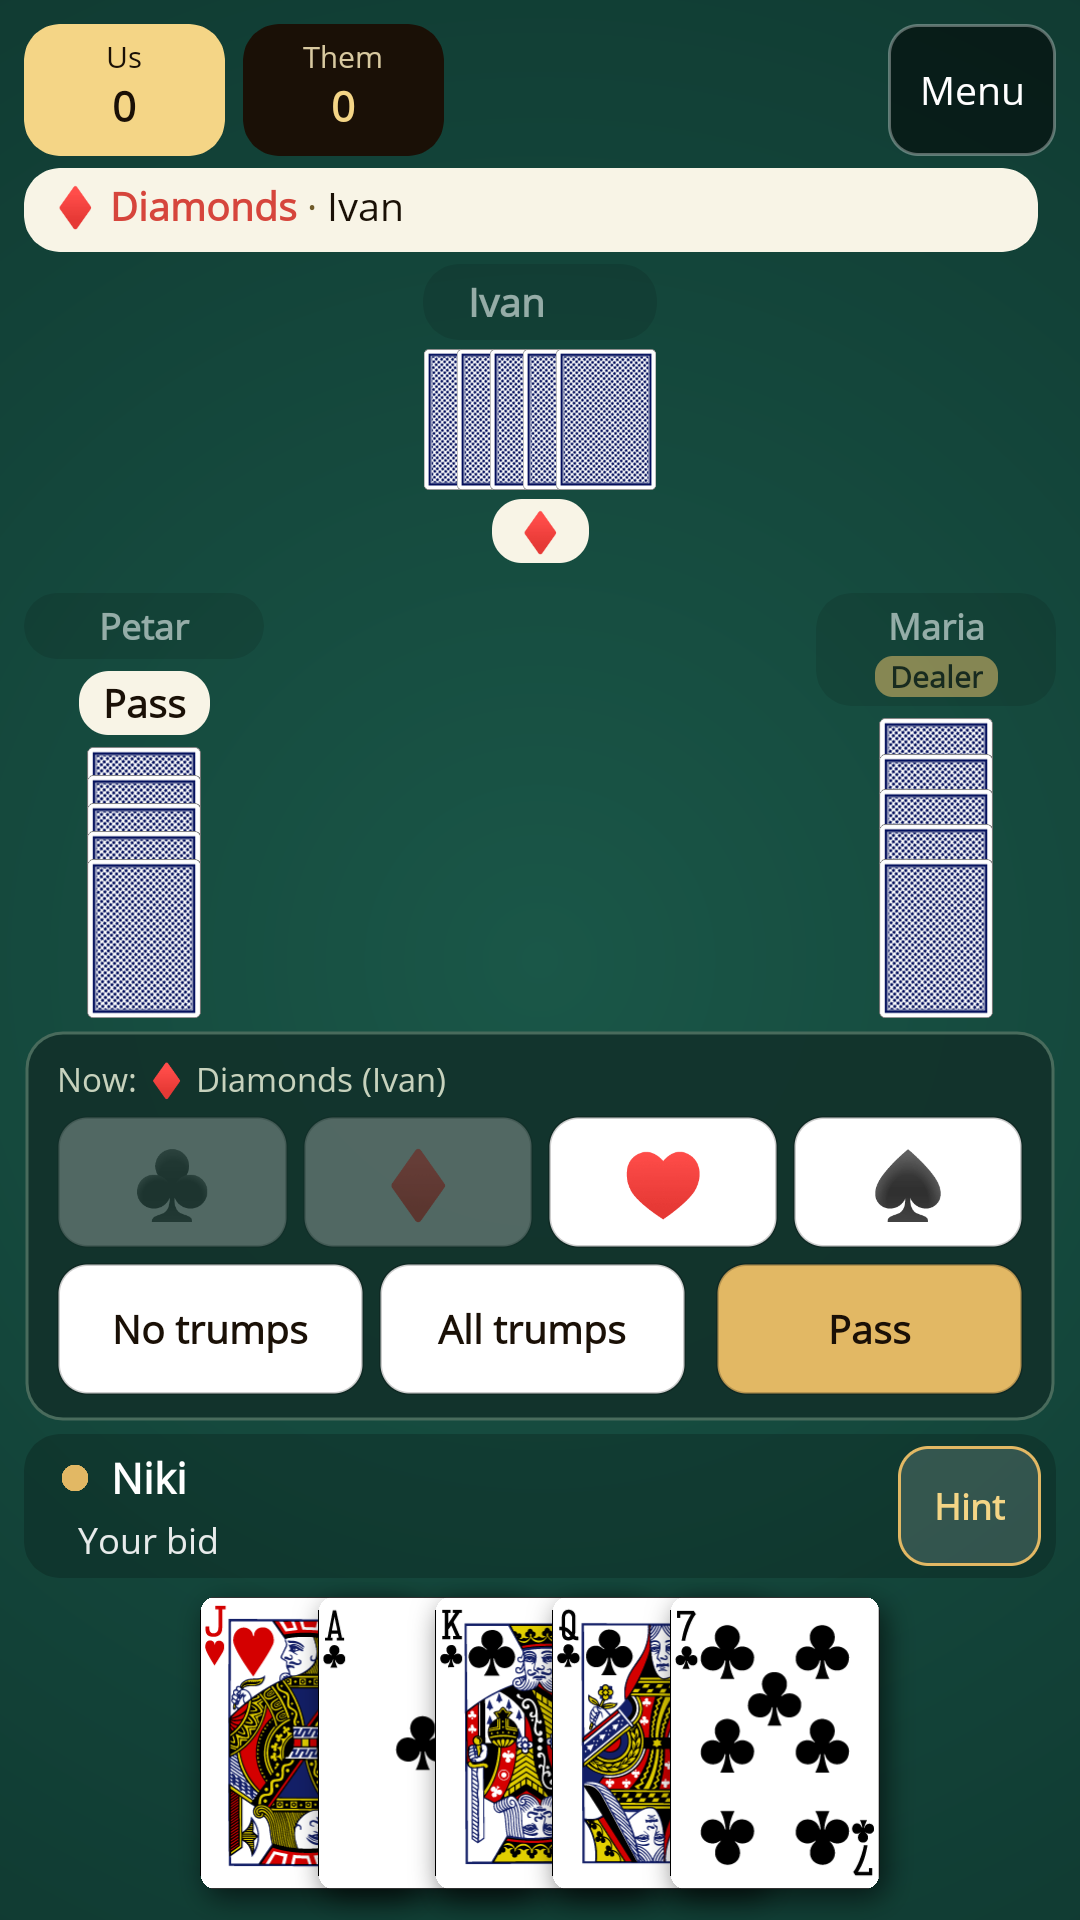
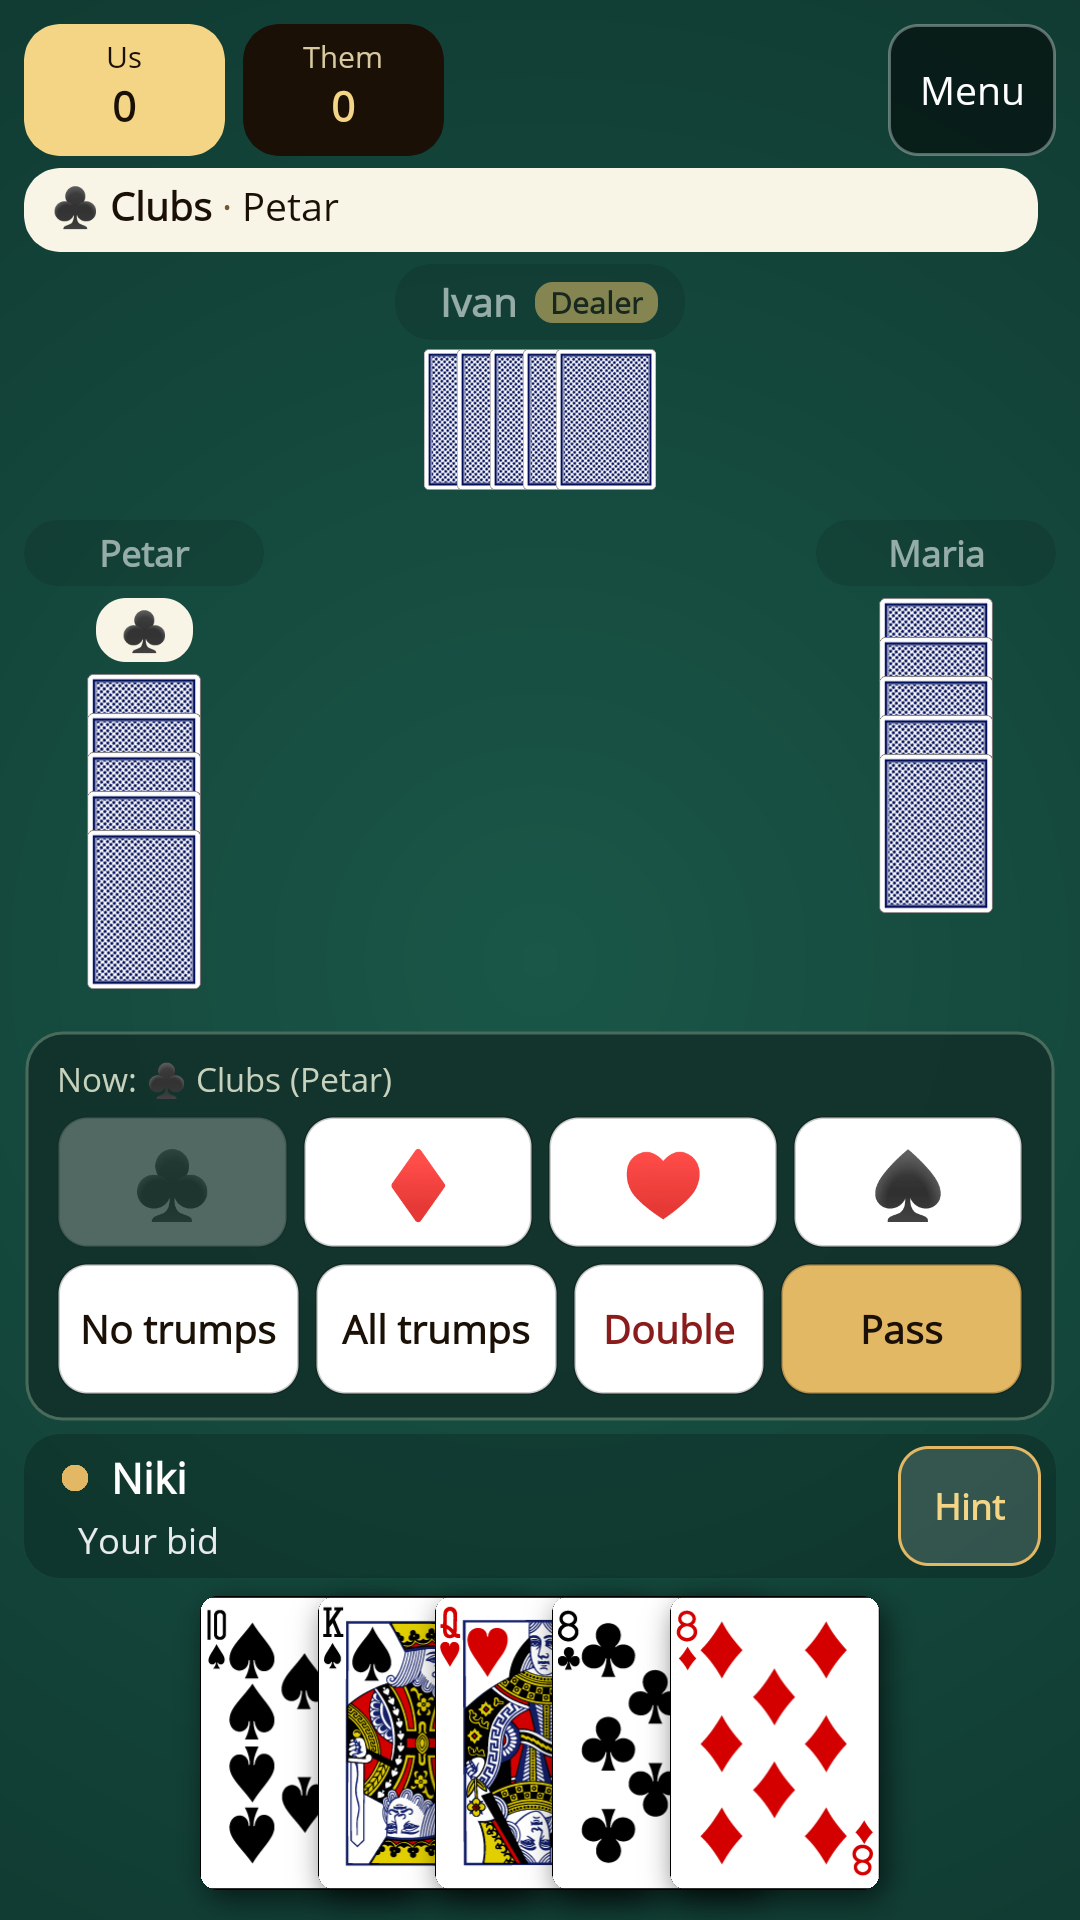
Refresh store screenshots for manual card play

diff --git a/store/google-play/README.md b/store/google-play/README.md
@@ -10,7 +10,7 @@
 
 | № | Файл във всяка езикова папка | Съдържание |
 | --- | --- | --- |
-| 1 | `01-gameplay.png` | Разиграване — картите, текущата игра и резултатът |
+| 1 | `01-gameplay.png` | Разиграване — невалидните карти са леко затъмнени; всяка човешка карта чака натискане |
 | 2 | `02-bidding.png` | Обявяване — избор на игра с началните пет карти |
 | 3 | `03-hint.png` | Подсказка — предложена карта, отбелязана в ръката |
 | 4 | `04-declarations.png` | Комбинации — реална възможност за обява |
@@ -26,7 +26,7 @@
 - Заснемане от реалния Android интерфейс на **BlueStacks Test**, конфигурация `Pie64_2`, serial `127.0.0.1:5575`, Android 9 / API 28. The Tower (`Pie64`, `emulator-5554`) не се използва.
 - Телефонен профил **1080 × 1920**, **480 dpi**, ширина **360 dp**, системен шрифт 1x. Android immersive policy скрива системната лента само за заснемането.
 - **24-битов RGB PNG, без алфа-канал**, с оригиналните екранни пиксели. Няма преоразмеряване, изрязване, ретуш, добавени надписи или генериран интерфейс. Игрите и резултатите са реални.
[2 lines of base64/hex data omitted]
 
 Google Play допуска до осем снимки за тип устройство и изисква JPEG или 24-битов PNG без алфа-канал. Избраният размер 1080 × 1920 е 9:16 и покрива размера за препоръчваните вертикални игрови снимки; за тези формати се искат поне три кадъра от действителната игра. [Официални указания за изображенията в Google Play](https://support.google.com/googleplay/android-developer/answer/9866151?hl=bg).
 
@@ -79,8 +79,8 @@ Start-Process .\store\google-play\screenshots\index.html
 
 - **21/21 теста на валидатора:** декодиране на PNG филтрите, повредени файлове, грешни размери/формат, дубликати, несъответстващи записи за произход и защита на манифеста при неуспех.
 - **16/16 файла:** 1080 × 1920, 24-битов RGB PNG, без прозрачност, без дубликати; CRC и RGB хешовете съвпадат с данните от заснемането.
-- **Визуален преглед:** двата езика са правилни; картите, подсказките, изборите и резултатите са четими. Статистиката и правилата са страници с превъртане и естествено продължават под екрана. Английският кадър с две комбинации е заменен с по-ясен кадър с една комбинация, която се вижда изцяло.
+- **Визуален преглед:** двата езика са правилни; картите, подсказките, изборите и резултатите са четими. Статистиката и правилата са страници с превъртане и естествено продължават под екрана. Кадрите с комбинации показват по една комбинация, която се вижда изцяло. В разиграването невалидните карти са леко сиви, валидните са ярки, а подсказката ги подчертава със златна рамка без разместване.
 - **Test е възстановен и проверен след рестарт:** физически дисплей 1920 × 1080 с портретна ориентация на приложението, 240 dpi, системен шрифт 1.0; временните `policy_control`, `sysui_demo_allowed` и `sysui_tuner_demo_on` са премахнати. Приложението е на началния екран на български; запазени са четирите изиграни игри и рейтингът 960. The Tower не е променян.
-- Заснемането използва вече проверения APK 1.0. Няма промени в приложението или ново публикуване.
+- Всичките 16 кадъра са презаснети от проверения APK 1.0 след поправките за ръчно изиграване на всяка човешка карта и леко затъмняване на невалидните карти (commit `92a0579`). Комплектът заменя по-ранните снимки от същия ден. Няма ново публикуване.
 
 Архивът за предаване е `artifacts/store-screenshots-20260929/Belot-1.0-GooglePlay-bg-en.zip`. За качване използвай само осемте PNG файла от съответната езикова папка; галерията, манифестът и записите за произход са за преглед и проверка.

diff --git a/etc/AndroidUiReleaseCheck.md b/etc/AndroidUiReleaseCheck.md
@@ -2,6 +2,8 @@
 
 September 29, 2026. Scope: the MAUI app in `src/UI/Belot.UI`; engine rules and AI weights are unchanged. App version remains **1.0 (build 1)**.
 
+Latest installed APK and validation: see **Manual human cards and gentle dimming — follow-up** below. It supersedes the earlier APK: **275 UI / 746 engine / 361 AI tests**, both Release builds clean, and all 16 Google Play screenshots refreshed from it.
+
 ## Bugs and fixes
 
 “Device” means reproduced on the authorized BlueStacks Test instance. Other entries cover deterministic test reproductions and source-identified layout constraints; coverage and device-check limits are listed separately.
@@ -41,7 +43,7 @@ September 29, 2026. Scope: the MAUI app in `src/UI/Belot.UI`; engine rules and A
 
 A `FlexLayout` candidate made Settings buttons invisible on the native device and was reverted to explicit adaptive grids. It did not pass native review. Black illegal-card overlays, lowered cards, numeric opponent counters and whole-table scrolling were also removed; their earlier screenshots are not final release evidence.
 
-## Validation status
+## Earlier UI audit validation
 
 - **272/272 UI tests passed**; baseline was 74. Engine **741** and AI **361** tests passed in the earlier verification run.
 - Final Release builds passed with **zero warnings and errors**: Android **2:07.38**, Windows **38.90 seconds**.
